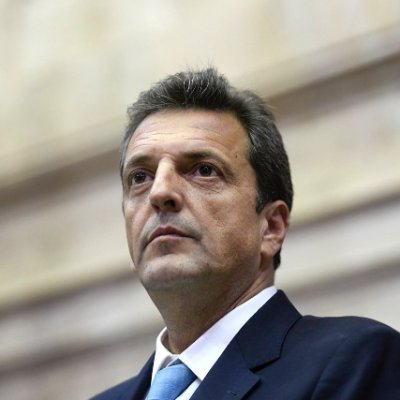
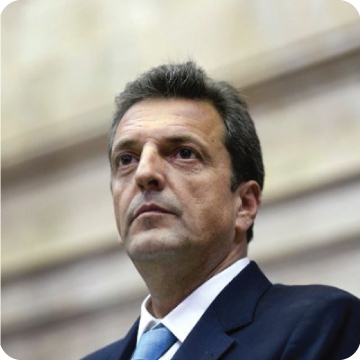
pantalla Votar casi terminada

diff --git a/app/components/ScrollerFixed.tsx b/app/components/ScrollerFixed.tsx
@@ -1,5 +1,6 @@
 'use client'
-import { CSSProperties, Dispatch, SetStateAction, useState } from "react";
+import Error from "next/error";
+import { CSSProperties, Dispatch, SetStateAction, useEffect, useState } from "react";
 
 type voteDouble = {
     big : number,
@@ -11,52 +12,90 @@ const enum numberPart {
     small = "small",
 }
 
-export default function ScrollerFixed({theme, votes} : {theme : CSSProperties, votes : number}) {
-    const [currentSelected, setCurrentSelected] = useState<voteDouble>({big: 35, small: 3});
+export default function ScrollerFixed({theme, votes,candidateId, initialVotes} : {theme : CSSProperties, votes : (candidateId : number, voteValue : number)=> void, candidateId : number, initialVotes : number}) {
+    const [currentSelected, setCurrentSelected] = useState<voteDouble>({big: initialVotes-(initialVotes%1), small: (initialVotes%1)*10});
     
-
-    votes = currentSelected.big + currentSelected.small/100;
-    
-
     const handlePlusButton = (setter : Dispatch<SetStateAction<voteDouble>>, numberPart : numberPart) => {
         
-        if (currentSelected[numberPart] < 100) {
-            setter(prevState => ({...prevState, [numberPart]: prevState[numberPart] + 1}));
+        var newVoteValue = currentSelected.big + currentSelected.small/100;
+        if(numberPart == "big"){
+           newVoteValue = newVoteValue + 1;
         } else {
-            setter(prevState => ({...prevState, [numberPart]: 0}));
+            newVoteValue = newVoteValue + 0.01;
         }
+        try {
+            console.log('sending vote' + newVoteValue)
+            votes(candidateId, newVoteValue);
+            if (numberPart == "big") {
+                setter(prevState => ({...prevState, big: prevState.big + 1}));
+            }
+            else {
+                if(currentSelected.small == 99)
+                {
+                    return;
+                }
+                setter(prevState => ({...prevState, small: prevState.small + 1}));
+            }
+        }catch(error)
+        {
+            console.log(error)
+        }
+        
+
     }
 
-    const handleMinusButton = (value: number, setter : Dispatch<SetStateAction<voteDouble>>, numberPart : numberPart ) => {
-        if (value > 0) {
+    const handleMinusButton =  (setter : Dispatch<SetStateAction<voteDouble>>, numberPart : numberPart ) => {
+        if(currentSelected.small == 0 && numberPart == "small"){
+            return;
+        }
+        if(currentSelected.big == 0 && numberPart == "big"){
+            return;
+        }
+        var newVoteValue = currentSelected.big + currentSelected.small/100;
+        if(numberPart == "big"){
+           newVoteValue = newVoteValue - 1;
+        } else {
+            newVoteValue = newVoteValue - 0.01;
+        }
+        try {
+            votes(candidateId, newVoteValue);
+        }catch(error)
+        {
+            console.log(error);
+        }
+        if (numberPart == "big") {
+            setter(prevState => ({...prevState, big: prevState.big - 1}));
+        }
+        else {
             setter(prevState => ({...prevState, small: prevState.small - 1}));
-        } else {
-            setter(prevState => ({...prevState, small: 99, big: prevState.big - 1}));
         }
     }
 
-    function MinusButton({currentSelected, setter, numberPart} : {currentSelected: number, setter : Dispatch<SetStateAction<voteDouble>>,numberPart : numberPart}){
+    function MinusButton({setter, numberPart} : { setter : Dispatch<SetStateAction<voteDouble>>,numberPart : numberPart}){
         return(
-            <button className="p-2 border " onClick={e => handleMinusButton(currentSelected, setter, numberPart)}>-</button>
+            <button className="px-8 py-1 border-2 rounded-md" onClick={e => handleMinusButton(setter, numberPart) } style={{borderColor : theme.color}}>-</button>
         )
     }
-    function PlusButton({currentSelected, setter, numberPart} : {currentSelected: number, setter : Dispatch<SetStateAction<voteDouble>>, numberPart : numberPart}){
+    function PlusButton({ setter, numberPart} : { setter : Dispatch<SetStateAction<voteDouble>>, numberPart : numberPart}){
         return(
-            <button className="p-2 border " onClick={e => handlePlusButton(setter, numberPart)}>+</button>
+            <button className="px-8 py-1 border-2 rounded-md" onClick={e => handlePlusButton(setter, numberPart)} style={{borderColor : theme.color}}>+</button>
         )
     }
 
     return (
-        <div className="flex flex-grow justify-center items-center" style={{...theme}}>
-            <div className="p-4">
-            <PlusButton currentSelected={currentSelected.big} setter={setCurrentSelected} numberPart={numberPart.big}/>
+        <div className="flex flex-grow justify-center items-center text-xl" style={{...theme}}>
+            <div className="p-1">
+            <PlusButton  setter={setCurrentSelected} numberPart={numberPart.big}/>
             <p className="p-4">{currentSelected.big}</p>
-            <MinusButton currentSelected={currentSelected.big} setter={setCurrentSelected} numberPart={numberPart.big}/>
+            <MinusButton  setter={setCurrentSelected} numberPart={numberPart.big}/>
             </div>
-            <div>
-            <PlusButton currentSelected={currentSelected.small} setter={setCurrentSelected} numberPart={numberPart.small}/>
-            <p  className="p-4">{currentSelected.small}</p>
-            <MinusButton currentSelected={currentSelected.small} setter={setCurrentSelected} numberPart={numberPart.small}/>
+            <div className="">
+            <p className="m-0 text-xl">,</p>
+            </div>
+            <div className="p-1">
+            <PlusButton setter={setCurrentSelected} numberPart={numberPart.small}/>
+            <p  className="p-4">{currentSelected.small-(currentSelected.small%1)}</p>
+            <MinusButton setter={setCurrentSelected} numberPart={numberPart.small}/>
             </div>
         </div>
     )

diff --git a/app/page.tsx b/app/page.tsx
@@ -5,7 +5,9 @@ import Image, { StaticImageData } from "next/image";
 import Icono_Milei from '../public/Icono_Milei.jpg';
 import Icono_Bullrich from '../public/Icono_Bullrich.jpg';
 import Icono_Massa from '../public/Icono_Massa.jpg';
-import Scroller from "./components/Scroller";
+import Icono_Bregman from '../public/Icono_Bregman.png';
+import Icono_Schiaretti from '../public/Icono_Schiaretti.png';
+
 
 const mileiTheme = {
   color: '#FF00C8',
@@ -16,6 +18,12 @@ const patoTheme = {
 const massaTheme = {
   color: '#38bdf8',
 }
+const BregmanTheme = {
+  color: '#f87171',
+}
+const schiarettiTheme = {
+  color: '#6ee7b7',
+}
 
 type CandidateType = {
   CandidateName: string,
@@ -23,7 +31,8 @@ type CandidateType = {
   theme: {
     color: string,
   }
-  votes : number
+  initialVotes : number,
+  
 }
 
 
@@ -32,36 +41,113 @@ const CandidateList : CandidateType[] = [
     CandidateName: "Javier Milei",
     ImageUrl: Icono_Milei,
     theme: mileiTheme,
-    votes: 0.00,
+    initialVotes : 32.5,
+    
   },
   {
     CandidateName: "Patricia Bullrich",
     ImageUrl: Icono_Bullrich,
     theme: patoTheme,
-    votes: 0.00,
+    initialVotes : 27.6,
   },
   {
     CandidateName: "Sergio Massa",
     ImageUrl: Icono_Massa,
     theme: massaTheme,
-    votes: 0.00,
+    initialVotes : 26.5,
+  },
+  {
+    CandidateName: "Myriam Bregman",
+    ImageUrl: Icono_Bregman,
+    theme: BregmanTheme,
+    initialVotes : 5.2,
+  },
+  {
+    CandidateName: "Juan Schiaretti",
+    ImageUrl: Icono_Schiaretti,
+    theme: schiarettiTheme,
+    initialVotes : 4.2,
   },
 ]
 
+type voteType = {
+  CandidateId : number,
+  VoteValue : number,
+  
+}
+
+const CandidateVote : voteType[] = [
+  {
+    CandidateId : 1,
+    VoteValue : 0.00,
+  },
+  {
+    CandidateId : 2,
+    VoteValue : 0.00,
+  },
+  {
+    CandidateId : 3,
+    VoteValue : 0.00,
+  },
+  {
+    CandidateId : 4,
+    VoteValue : 0.00,
+  },
+  {
+    CandidateId : 5,
+    VoteValue : 0.00,
+  },
+]
+
+CandidateVote.forEach((candidate,index) => {
+  candidate.VoteValue = CandidateList[index].initialVotes
+});
 
 
 export default function Hub(){
 
- let  InitialVoteValue  = 0.00
- CandidateList.forEach(candidate =>  InitialVoteValue += candidate.votes);
-  
- 
-  
-  
-   
-  function handleVote(){
+  const [vote, setVote] = useState<voteType[]>(CandidateVote)
 
+   
+
+  function handleVote(CandidateId : number, VoteValue : number){
+    console.log('i  got ' + VoteValue + 'from ' + CandidateId)
+    var res = 0
+    vote.forEach(candidate => { // sumo los votos de todos los candidatos
+      if(candidate.CandidateId !== CandidateId)
+      {
+        res = res + candidate.VoteValue
+      }
+    })
+    
+    res = res + VoteValue // sumo el voto que se quiere agregar
+    console.log(res + ' es el resultado')
+    if (res  <= 100 && res >= 0){ // verifico que no se pase de 100 o a los negativos
+      const nextVotes = vote.map((candidate) => {
+        if(candidate.CandidateId === CandidateId)
+        {
+          return {
+            ...candidate,
+            VoteValue : VoteValue,
+          }
+        } else {
+          return candidate
+        }
+      });
+      
+      setVote(nextVotes)
+      
+    } else {
+      console.log('no se puede votar')
+      if(res > 100){
+        throw new Error('Te pasaste por' + (res - 100) + '%')
+      }
+      if(res < 0){
+        throw new Error('los votos no pueden ser negativos')
+      }
+   }
   }
+
 
     return(
         <main className="container">
@@ -69,17 +155,20 @@ export default function Hub(){
             <button className="border-solid border-2 p-1 ">Crea tu Propio Prode</button>
             <h1>Hub</h1>
           </div>
-            <div className="flex flex-col gap-4  max-w-full  ">
+            <div className="flex flex-col gap-4    p-2">
               
               {CandidateList.map((candidate,index) => {
                 return(
-                  <Candidate key={index} CandidateName={candidate.CandidateName} ImageUrl={candidate.ImageUrl} theme={candidate.theme} votes={candidate.votes}/>
+                  <Candidate key={index} CandidateName={candidate.CandidateName} ImageUrl={candidate.ImageUrl} theme={candidate.theme} candidateId={vote[index].CandidateId} votes={handleVote} initialVotes={candidate.initialVotes}/>
                 )
               }
             )}  
             </div>
             <div>
               <h1 className=" text-red-700 text-center">Te Pasaste por 15%</h1>
+            </div>
+            <div className="flex w-full  justify-center items-center">
+              <button className="border-solid border-2 p-1">Enviar</button>
             </div>
         </main>
     )

diff --git a/app/components/Candidate.tsx b/app/components/Candidate.tsx
@@ -5,15 +5,20 @@ import ScrollerFixed from './ScrollerFixed'
 import { CSSProperties } from 'react'
 
 
-export default function Candidate({CandidateName,ImageUrl, theme, votes} : {CandidateName: string, ImageUrl: StaticImageData, theme : CSSProperties, votes : number}){
+export default function Candidate({CandidateName,ImageUrl, theme, votes, candidateId, initialVotes} : {CandidateName: string, ImageUrl: StaticImageData, theme : CSSProperties, votes : (candidateId : number, VoteValue : number) => void , candidateId : number, initialVotes : number}){
     return(
           <div className="text-center">
-            <h1>{CandidateName}</h1>
+            
             <div className='flex flex-row justify-around p-2 '>
-                <Image src={ImageUrl} alt={CandidateName} style={{maxWidth:'50%', height : '100%'}}/>
-                <ScrollerFixed theme={theme} votes={votes}/>
+                
+                <Image className='border-b-7' src={ImageUrl} alt={CandidateName} layout='responsive' style={{maxWidth:'100%', height : '100%', borderBottomColor : theme.color }}/>
+                <div className='flex-shrink '>
+                <h1>{CandidateName}</h1>
+                <ScrollerFixed theme={theme} votes={votes} candidateId={candidateId} initialVotes={initialVotes}/>
+                </div>
+                
             </div>
             
           </div> 
-    )
+    ) 
 }

diff --git a/tailwind.config.ts b/tailwind.config.ts
@@ -16,6 +16,9 @@ const config: Config = {
         'gradient-conic':
           'conic-gradient(from 180deg at 50% 50%, var(--tw-gradient-stops))',
       },
+      borderWidth: {
+        '7' : '7.75'
+      },
     },
   },
   plugins: [],
